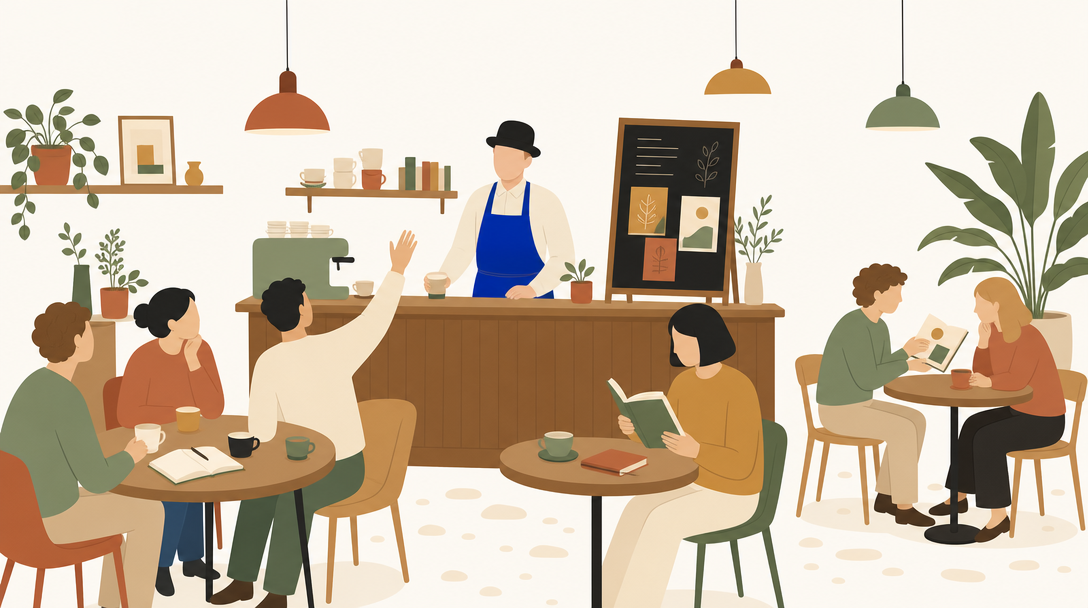
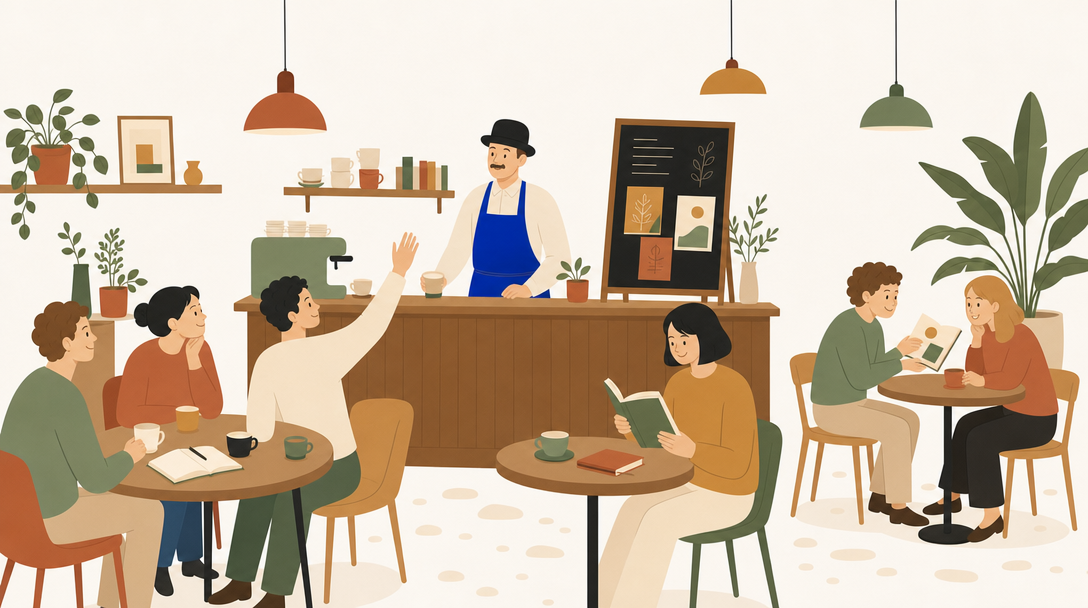
Landing : le texte face à l'image, des visages, la moustache de Maurice, et plus de courrier ni d'ardoise
Le Hero met le texte en vis-à-vis du café. Les personnages ont des yeux et une
bouche, Maurice une moustache. La section « ce que nous croyons » disparaît.
L'ardoise n'est plus nommée : on publie sur « votre site à vous ». Le courrier
sort de la page, il ne sera pas dans la première version : le contexte vient de
l'historique ChatGPT ou Claude. La table montre l'image, celui qui se retourne
vers Maurice, à la place de la conversation d'exemple.

diff --git a/design/landing/fr/index.html b/design/landing/fr/index.html
@@ -4,13 +4,13 @@
 <meta charset="utf-8" />
 <meta name="viewport" content="width=device-width, initial-scale=1" />
 <title>Chez Maurice — un endroit où l’on s’entend penser</title>
-<meta name="description" content="Chez Maurice est un endroit calme sur le réseau : un assistant qui vous connaît, une table pour quelques proches, et une ardoise où afficher ce qui vaut d’être partagé. Bêta privée, sur invitation." />
+<meta name="description" content="Chez Maurice est un endroit calme sur le réseau : un assistant qui vous connaît, une table pour quelques proches, et un site à vous pour publier ce qui vaut d’être partagé. Bêta privée, sur invitation." />
 <link rel="preconnect" href="https://fonts.googleapis.com" />
 <link rel="preconnect" href="https://fonts.gstatic.com" crossorigin />
 <link href="https://fonts.googleapis.com/css2?family=Newsreader:ital,opsz,wght@0,6..72,400;0,6..72,500;1,6..72,400&amp;display=swap" rel="stylesheet" />
 <link rel="alternate" hreflang="fr" href="https://www.chezmaurice.eu/fr/" />
 <link rel="alternate" hreflang="en" href="https://www.chezmaurice.eu/" />
-<link rel="stylesheet" href="../home.css?v=20261006a" />
+<link rel="stylesheet" href="../home.css?v=20261006b" />
 </head>
 <body>
 
@@ -44,26 +44,18 @@
 
 <!-- Hero -->
 <section class="hero" id="top">
-  <div class="wrap">
+  <div class="wrap split">
     <div class="hero-copy">
       <p class="eyebrow">Bêta privée · on entre sur invitation</p>
       <h1>Un endroit où l’on s’entend penser.</h1>
-      <p class="hero-sub">Chez Maurice, vous retrouvez ce que vous avez lu, reçu et pensé, vous en parlez avec un assistant qui vous connaît, et vous partagez ce qui en vaut la peine. Seul à votre table, avec quelques proches, ou sur votre ardoise pour ceux qui passent.</p>
+      <p class="hero-sub">Chez Maurice, vous retrouvez ce que vous avez lu, écrit et pensé, vous en parlez avec un assistant qui vous connaît, et vous partagez ce qui en vaut la peine. Seul à votre table, avec quelques proches, ou sur votre site à vous, pour ceux qui passent.</p>
       <div class="hero-cta">
         <a class="btn btn-primary" href="https://account.chezmaurice.eu/?via=landing&amp;lang=fr">J’ai un code d’invitation</a>
         <a class="more" href="mailto:bonjour@chezmaurice.eu?subject=Une%20invitation%20chez%20Maurice">Demander une invitation →</a>
       </div>
       <p class="aside">La maison ouvre à quelques cercles à la fois.</p>
     </div>
-    <img class="hero-scene" src="../ill/cafe.webp" srcset="../ill/cafe-1088.webp 1088w, ../ill/cafe.webp 2176w" sizes="(max-width: 1248px) 100vw, 1200px" width="2176" height="1216" alt="Un café tranquille : Maurice derrière le bar avec son chapeau melon, une ardoise à côté de lui, des amis qui discutent à une table, quelqu’un qui lit seul à une autre">
-  </div>
-</section>
-
-<!-- What we believe -->
-<section class="creed band">
-  <div class="wrap">
-    <p class="eyebrow">Ce que nous croyons</p>
-    <p class="creed-text">Nous croyons que l’IA peut servir à autre chose qu’à nous retenir. Qu’elle peut aider chacun à relire sa propre vie, à comprendre ce qui l’occupe, et à le dire avec ses mots. Que ce qu’on partage vaut mieux quand il vient de l’intérieur. Et que rien de tout cela n’exige de confier ses données à qui que ce soit.</p>
+    <img class="hero-scene" src="../ill/cafe.webp" srcset="../ill/cafe-small.webp 853w, ../ill/cafe.webp 1706w" sizes="(max-width: 900px) 100vw, 620px" width="1706" height="1216" alt="Un café tranquille : Maurice derrière le bar avec son chapeau melon, une ardoise à côté de lui, des amis qui discutent à une table, quelqu’un qui lit seul à une autre">
   </div>
 </section>
 
@@ -72,14 +64,14 @@
   <div class="wrap">
     <div class="split path-head">
       <div class="stack">
-        <p class="vignettes"><img class="vignette" src="../ill/carnet.png" alt=""><img class="vignette" src="../ill/ardoise.png" alt=""></p>
-        <p class="eyebrow">Du carnet à l’ardoise</p>
-        <h2 class="display">De ce que vous lisez <em>à ce que vous affichez.</em></h2>
+        <img class="vignette" src="../ill/carnet.png" alt="">
+        <p class="eyebrow">Du carnet à votre site</p>
+        <h2 class="display">De ce que vous lisez <em>à ce que vous publiez.</em></h2>
         <p class="lede">Vous avez vu un film, fini un livre, un article vous est resté. Quelques lignes avec vos mots, et c’est sur votre propre site. Pas de fil, pas d’audience à nourrir.</p>
       </div>
       <div class="card cardex">
         <div class="card-head">
-          <h3>Sur l’ardoise de Claire</h3>
+          <h3>Sur le site de Claire</h3>
           <p>Exemple</p>
         </div>
         <div class="cardex-body">
@@ -111,8 +103,8 @@
       </div>
       <div class="step">
         <p class="n">4</p>
-        <h3>Vous l’affichez sur votre ardoise.</h3>
-        <p>Quelques lignes avec vos mots, publiées sur votre propre site. Vos amis reçoivent un lien&nbsp;: ils n’ont rien à installer.</p>
+        <h3>Vous le publiez sur votre site à vous.</h3>
+        <p>Quelques lignes avec vos mots, sous votre nom et pas sur une plateforme. Vos amis reçoivent un lien&nbsp;: ils n’ont rien à installer.</p>
       </div>
     </div>
     <p class="closing">À force, vous savez ce que vous pensez. Et vous avez de quoi le montrer.</p>
@@ -127,9 +119,8 @@
       <div class="stack">
         <img class="vignette" src="../ill/chapeau.png" alt="">
         <p class="eyebrow">Le patron</p>
-        <h2 class="display">Dix ans de courrier, trois ans de conversations. <em>Il a déjà tout lu.</em></h2>
-        <p class="lede">Maurice est le patron, et un bon patron connaît ses habitués. Branchez votre boîte mail, déposez votre historique ChatGPT ou Claude&nbsp;: il en tire les sujets qui comptent dans votre vie, les personnes, ce qui est en cours. Vous n’avez rien à lui expliquer.</p>
-        <p class="lede">Il demande avant de lire votre courrier, et il n’a aucun moyen d’envoyer ou d’effacer un message.</p>
+        <h2 class="display">Trois ans de conversations. <em>Il a déjà tout lu.</em></h2>
+        <p class="lede">Maurice est le patron, et un bon patron connaît ses habitués. Déposez votre historique ChatGPT ou Claude&nbsp;: il en tire les sujets qui comptent dans votre vie et ce qui est en cours. Vous n’avez rien à lui expliquer.</p>
         <a class="learn" href="/fr/memoire">Comment Maurice apprend →</a>
       </div>
       <div class="card">
@@ -138,17 +129,16 @@
           <p>Exemple</p>
         </div>
         <div class="well">
-        <div class="row"><div class="who"><b>Votre boîte Gmail</b><small>2&nbsp;100 vrais échanges parmi 12&nbsp;400 messages</small></div><p class="dim">Lu</p></div>
         <div class="row"><div class="who"><b>Votre historique ChatGPT</b><small>3 ans de conversations</small></div><p class="dim">Importé</p></div>
         <div class="row"><div class="who"><b>Votre historique Claude</b><small>214 conversations</small></div><p class="dim">Importé</p></div>
         </div>
-        <p class="bill-note">Il en a tiré 6 sujets et 48 personnes. Chaque ligne renvoie à sa source, et attend que vous la confirmiez.</p>
+        <p class="bill-note">Il en a tiré 6 sujets. Chacun a son résumé, que vous pouvez lire, corriger ou effacer.</p>
       </div>
     </div>
     <div class="split flip">
       <div class="stack">
         <h2 class="display">Il sait beaucoup. <em>Il n’utilise que ce que vous allumez.</em></h2>
-        <p class="lede">Pour chaque conversation, vous décidez ce que Maurice a sous les yeux&nbsp;: votre courrier, vos anciennes conversations, vos notes, vos lectures. Ce qui est éteint, il ne le consulte pas.</p>
+        <p class="lede">Pour chaque conversation, vous décidez ce que Maurice a sous les yeux&nbsp;: vos anciennes conversations, vos notes, vos lectures. Ce qui est éteint, il ne le consulte pas.</p>
       </div>
       <div class="card">
         <div class="card-head">
@@ -156,7 +146,6 @@
           <p>Exemple</p>
         </div>
         <div class="well">
-        <div class="row"><p>Votre courrier</p><span class="switch is-on" role="img" aria-label="Allumé"></span></div>
         <div class="row"><p>Vos anciennes conversations</p><span class="switch is-on" role="img" aria-label="Allumé"></span></div>
         <div class="row"><p>Vos notes</p><span class="switch is-on" role="img" aria-label="Allumé"></span></div>
         <div class="row"><p>Vos lectures</p><span class="switch" role="img" aria-label="Éteint"></span></div>
@@ -170,25 +159,13 @@
 <section class="section household" id="household">
   <div class="wrap split">
     <div class="stack">
-      <img class="vignette on-dark" src="../ill/gueridon.png" alt="">
       <p class="eyebrow">Votre table</p>
       <h2 class="display">Une table pour quelques proches, <em>où le patron attend qu’on l’appelle.</em></h2>
       <p class="lede">Votre cercle, ce sont ceux avec qui vous vous asseyez&nbsp;: un conjoint, un compagnon ou une compagne, les membres d’un projet que vous menez ensemble. Vous y échangez des idées dans des conversations communes, autour d’un contexte que vous partagez.</p>
       <p class="lede">Maurice est là, mais il se tait tant qu’on ne s’adresse pas à lui. Et ce qu’il sait de chacun en privé reste loin de la table.</p>
       <a class="learn" href="/fr/foyer">En savoir plus sur les cercles →</a>
     </div>
-    <div class="card">
-      <div class="card-head">
-        <h3>Le programme du printemps</h3>
-        <p>Conversation d’un cercle</p>
-      </div>
-      <div class="room">
-        <div class="msg"><span class="avatar">C</span><div><b>Claire</b><p>On n’a toujours personne pour la soirée de mars.</p></div></div>
-        <div class="msg"><span class="avatar">M</span><div><b>Marc</b><p>Et celle qui a écrit sur les jardins urbains&nbsp;?</p></div></div>
-        <div class="msg"><span class="avatar">I</span><div><b>Inès</b><p><span class="mention">@Maurice</span>, qu’est-ce qu’on avait dit d’elle après la rencontre d’octobre&nbsp;?</p></div></div>
-        <div class="msg"><span class="avatar is-maurice"><svg width="18" height="13" aria-hidden="true"><use href="#hat"/></svg></span><div><b>Maurice</b><p>Vous aviez noté qu’elle était claire et drôle, et qu’elle avait proposé de revenir. Je peux retrouver son adresse dans l’échange avec Marc.</p></div></div>
-      </div>
-    </div>
+    <img class="table-scene" src="../ill/table.webp" width="1210" height="1066" loading="lazy" alt="Trois amis à une table de café ; l’un d’eux s’est retourné et lève la main vers Maurice, derrière le bar avec son chapeau melon">
   </div>
 </section>
 

diff --git a/design/landing/index.html b/design/landing/index.html
@@ -4,13 +4,13 @@
 <meta charset="utf-8" />
 <meta name="viewport" content="width=device-width, initial-scale=1" />
 <title>Chez Maurice — a place where you can hear yourself think</title>
-<meta name="description" content="Chez Maurice is a quiet place on the network: an assistant who knows you, a table for a few people close to you, and a board where you put up what is worth sharing. Private beta, by invitation." />
+<meta name="description" content="Chez Maurice is a quiet place on the network: an assistant who knows you, a table for a few people close to you, and a site of your own to publish what is worth sharing. Private beta, by invitation." />
 <link rel="preconnect" href="https://fonts.googleapis.com" />
 <link rel="preconnect" href="https://fonts.gstatic.com" crossorigin />
 <link href="https://fonts.googleapis.com/css2?family=Newsreader:ital,opsz,wght@0,6..72,400;0,6..72,500;1,6..72,400&amp;display=swap" rel="stylesheet" />
 <link rel="alternate" hreflang="fr" href="https://www.chezmaurice.eu/fr/" />
 <link rel="alternate" hreflang="en" href="https://www.chezmaurice.eu/" />
-<link rel="stylesheet" href="home.css?v=20261006a" />
+<link rel="stylesheet" href="home.css?v=20261006b" />
 </head>
 <body>
 
@@ -44,42 +44,34 @@
 
 <!-- Hero -->
 <section class="hero" id="top">
-  <div class="wrap">
+  <div class="wrap split">
     <div class="hero-copy">
       <p class="eyebrow">Private beta · by invitation</p>
       <h1>A place where you can hear yourself think.</h1>
-      <p class="hero-sub">At Chez Maurice you find again what you have read, received and thought, talk it over with an assistant who knows you, and share what is worth sharing. Alone at your table, with a few people close to you, or on your board for those who pass by.</p>
+      <p class="hero-sub">At Chez Maurice you find again what you have read, written and thought, talk it over with an assistant who knows you, and share what is worth sharing. Alone at your table, with a few people close to you, or on a site of your own, for those who pass by.</p>
       <div class="hero-cta">
         <a class="btn btn-primary" href="https://account.chezmaurice.eu/?via=landing">I have an invitation code</a>
         <a class="more" href="mailto:bonjour@chezmaurice.eu?subject=An%20invitation%20to%20Maurice">Ask for an invitation →</a>
       </div>
       <p class="aside">The house opens to a few circles at a time.</p>
     </div>
-    <img class="hero-scene" src="ill/cafe.webp" srcset="ill/cafe-1088.webp 1088w, ill/cafe.webp 2176w" sizes="(max-width: 1248px) 100vw, 1200px" width="2176" height="1216" alt="A quiet café: Maurice behind the bar in his bowler hat, a chalkboard beside him, friends talking at one table, someone reading alone at another">
+    <img class="hero-scene" src="ill/cafe.webp" srcset="ill/cafe-small.webp 853w, ill/cafe.webp 1706w" sizes="(max-width: 900px) 100vw, 620px" width="1706" height="1216" alt="A quiet café: Maurice behind the bar in his bowler hat, a chalkboard beside him, friends talking at one table, someone reading alone at another">
   </div>
 </section>
 
-<!-- What we believe -->
-<section class="creed band">
-  <div class="wrap">
-    <p class="eyebrow">What we believe</p>
-    <p class="creed-text">We believe AI can be used for something other than holding on to us. That it can help each of us reread our own life, understand what is on our mind, and say it in our own words. That what we share is better when it comes from within. And that none of this requires handing our data to anyone.</p>
-  </div>
-</section>
-
-<!-- From the notebook to the board -->
+<!-- From the notebook to your site -->
 <section class="section path" id="voice">
   <div class="wrap">
     <div class="split path-head">
       <div class="stack">
-        <p class="vignettes"><img class="vignette" src="ill/carnet.png" alt=""><img class="vignette" src="ill/ardoise.png" alt=""></p>
-        <p class="eyebrow">From the notebook to the board</p>
-        <h2 class="display">From what you read <em>to what you put up.</em></h2>
+        <img class="vignette" src="ill/carnet.png" alt="">
+        <p class="eyebrow">From the notebook to your site</p>
+        <h2 class="display">From what you read <em>to what you publish.</em></h2>
         <p class="lede">You saw a film, you finished a book, an article stayed with you. A few lines in your own words, and it is on your own site. No feed, no audience to feed.</p>
       </div>
       <div class="card cardex">
         <div class="card-head">
-          <h3>On Claire’s board</h3>
+          <h3>On Claire’s site</h3>
           <p>Example</p>
         </div>
         <div class="cardex-body">
@@ -111,8 +103,8 @@
       </div>
       <div class="step">
         <p class="n">4</p>
-        <h3>You put it up on your board.</h3>
-        <p>A few lines in your own words, published on your own site. Your friends get a link: they have nothing to install.</p>
+        <h3>You publish it on a site of your own.</h3>
+        <p>A few lines in your own words, under your name and not on a platform. Your friends get a link: they have nothing to install.</p>
       </div>
     </div>
     <p class="closing">In time, you know what you think. And you have something to show for it.</p>
@@ -127,9 +119,8 @@
       <div class="stack">
         <img class="vignette" src="ill/chapeau.png" alt="">
         <p class="eyebrow">Your host</p>
-        <h2 class="display">Ten years of mail, three years of conversations. <em>He has already read it all.</em></h2>
-        <p class="lede">Maurice is the host, and a good host knows his regulars. Connect your mailbox, drop in your ChatGPT or Claude history: he draws out the subjects that matter in your life, the people, what is under way. You have nothing to explain to him.</p>
-        <p class="lede">He asks before reading your mail, and he has no way to send or delete a message.</p>
+        <h2 class="display">Three years of conversations. <em>He has already read it all.</em></h2>
+        <p class="lede">Maurice is the host, and a good host knows his regulars. Drop in your ChatGPT or Claude history: he draws out the subjects that matter in your life and what is under way. You have nothing to explain to him.</p>
         <a class="learn" href="/memory">How Maurice learns →</a>
       </div>
       <div class="card">
@@ -138,17 +129,16 @@
           <p>Example</p>
         </div>
         <div class="well">
-        <div class="row"><div class="who"><b>Your Gmail mailbox</b><small>2,100 real exchanges among 12,400 messages</small></div><p class="dim">Read</p></div>
         <div class="row"><div class="who"><b>Your ChatGPT history</b><small>3 years of conversations</small></div><p class="dim">Imported</p></div>
         <div class="row"><div class="who"><b>Your Claude history</b><small>214 conversations</small></div><p class="dim">Imported</p></div>
         </div>
-        <p class="bill-note">He drew 6 subjects and 48 people from it. Every line points to its source, and waits for you to confirm it.</p>
+        <p class="bill-note">He drew 6 subjects from it. Each has its summary, which you can read, correct or erase.</p>
       </div>
     </div>
     <div class="split flip">
       <div class="stack">
         <h2 class="display">He knows a lot. <em>He only uses what you switch on.</em></h2>
-        <p class="lede">For each conversation, you decide what Maurice has in front of him: your mail, your past conversations, your notes, your reading. What is switched off, he does not look at.</p>
+        <p class="lede">For each conversation, you decide what Maurice has in front of him: your past conversations, your notes, your reading. What is switched off, he does not look at.</p>
       </div>
       <div class="card">
         <div class="card-head">
@@ -156,7 +146,6 @@
           <p>Example</p>
         </div>
         <div class="well">
-        <div class="row"><p>Your mail</p><span class="switch is-on" role="img" aria-label="On"></span></div>
         <div class="row"><p>Your past conversations</p><span class="switch is-on" role="img" aria-label="On"></span></div>
         <div class="row"><p>Your notes</p><span class="switch is-on" role="img" aria-label="On"></span></div>
         <div class="row"><p>Your reading</p><span class="switch" role="img" aria-label="Off"></span></div>
@@ -170,25 +159,13 @@
 <section class="section household" id="household">
   <div class="wrap split">
     <div class="stack">
-      <img class="vignette on-dark" src="ill/gueridon.png" alt="">
       <p class="eyebrow">Your table</p>
       <h2 class="display">A table for a few people close to you, <em>where the host waits to be called.</em></h2>
       <p class="lede">Your circle is the people you sit down with: a partner, a spouse, the members of a project you run together. You trade ideas in shared conversations, around a context you hold in common.</p>
       <p class="lede">Maurice is there, but he stays quiet until someone turns to him. And what he knows about each of you in private stays away from the table.</p>
       <a class="learn" href="/household">More about circles →</a>
     </div>
-    <div class="card">
-      <div class="card-head">
-        <h3>The spring programme</h3>
-        <p>A circle’s conversation</p>
-      </div>
-      <div class="room">
-        <div class="msg"><span class="avatar">C</span><div><b>Claire</b><p>We still have no speaker for the March evening.</p></div></div>
-        <div class="msg"><span class="avatar">M</span><div><b>Marc</b><p>What about the woman who wrote on urban gardens?</p></div></div>
-        <div class="msg"><span class="avatar">I</span><div><b>Inès</b><p><span class="mention">@Maurice</span>, what did we say about her after the October talk?</p></div></div>
-        <div class="msg"><span class="avatar is-maurice"><svg width="18" height="13" aria-hidden="true"><use href="#hat"/></svg></span><div><b>Maurice</b><p>You noted that she was clear and funny, and that she had offered to come back. I can find her address in the exchange with Marc.</p></div></div>
-      </div>
-    </div>
+    <img class="table-scene" src="ill/table.webp" width="1210" height="1066" loading="lazy" alt="Three friends at a café table; one has turned round and raises a hand towards Maurice, behind the bar in his bowler hat">
   </div>
 </section>
 

diff --git a/design/landing/home.css b/design/landing/home.css
@@ -123,22 +123,16 @@ a:hover { color: var(--accent-deep); text-decoration: underline; }
 
 .grid3 { display: grid; grid-template-columns: repeat(3, minmax(0, 1fr)); gap: 48px; }
 
-/* ---------- what we believe ---------- */
-.creed { padding: 88px 0; }
-.creed-text {
-  max-width: 900px; margin-top: 20px;
-  font-family: var(--serif); font-size: clamp(24px, 2.7vw, 34px); line-height: 1.32; letter-spacing: -0.005em;
-}
-
 /* ---------- illustrations ----------
    All cut from two generated plates in one style (design/landing/ill): the café
    scene, and a sheet of objects drawn from it. A new one must come from the
    same scene as its reference, or it will not sit with the others. */
-.hero-copy { max-width: 920px; }
-.hero-scene { display: block; width: 100%; height: auto; margin-top: 56px; }
+.hero-scene {
+  display: block; width: 100%; height: auto;
+  -webkit-mask-image: linear-gradient(to right, transparent, #000 9%); mask-image: linear-gradient(to right, transparent, #000 9%);
+}
+.table-scene { display: block; width: 100%; height: auto; border-radius: 20px; background: #fef9f1; }
 .vignette { display: block; height: 84px; width: auto; align-self: flex-start; }
-.vignettes { display: flex; align-items: flex-end; gap: 20px; }
-.vignette.on-dark { height: 96px; padding: 14px; border-radius: 50%; background: var(--page); aspect-ratio: 1; object-fit: contain; }
 
 /* an example card, as it reads on a member's site */
 .path-head { margin-bottom: 72px; }
@@ -178,16 +172,8 @@ a:hover { color: var(--accent-deep); text-decoration: underline; }
 
 /* the household (dark) */
 .household { background: var(--dark); color: var(--dark-ink); }
-.household .eyebrow, .household .mention { color: var(--accent-on-dark); }
-.household .lede, .household .card-head p, .msg p { color: var(--dark-muted); }
-.household .card { background: var(--dark-card); border-color: var(--dark-line); }
-.room { display: flex; flex-direction: column; gap: 18px; }
-.msg { display: flex; gap: 12px; align-items: flex-start; }
-.msg .avatar { flex-shrink: 0; color: var(--ink); }
-.msg .avatar.is-maurice { background: var(--accent-on-dark); }
-.msg b { display: block; font-size: 14px; font-weight: 600; }
-.msg p { font-size: 15px; line-height: 1.5; }
-
+.household .eyebrow { color: var(--accent-on-dark); }
+.household .lede { color: var(--dark-muted); }
 /* your own instance */
 .instance .card { padding: 24px; gap: 14px; }
 .instance .card h3 { font-size: 18px; }
@@ -286,11 +272,9 @@ a:hover { color: var(--accent-deep); text-decoration: underline; }
   .grid3 { grid-template-columns: minmax(0, 1fr); gap: 32px; }
   .hero { padding: 40px 0 72px; }
   .section { padding: 80px 0; }
-  .creed { padding: 64px 0; }
   .context .split + .split { margin-top: 72px; }
   .flip > :first-child { order: 0; }
   .closing { margin-top: 48px; }
-  .hero-scene { margin-top: 40px; }
   .vignette { height: 68px; }
   .path-head { margin-bottom: 48px; }
   .import-head { margin-bottom: 40px; }

diff --git a/design/landing-illustrations/README.md b/design/landing-illustrations/README.md
@@ -3,8 +3,11 @@
 Everything drawn on the landing (`design/landing/ill/`) is cut from two images
 generated on fal.ai with `openai/gpt-image-2`, 6 October 2026:
 
-- `cafe-scene.png` — the café, Maurice behind the bar in his bowler hat. Made
-  from text alone (`gen.py`: the scene, then the style block).
+- `cafe-scene-faceless.png` — the first café, made from text alone (`gen.py`:
+  the scene, then the style block).
+- `cafe-scene.png` — the same picture edited to give everyone a face and
+  Maurice a moustache. This is the reference; the hero and the table picture
+  are both cut from it.
 - `objects-sheet.png` — eight objects in the same hand, made by *editing* the
   scene (`sheet.py`), which is what keeps them in its style.
 
